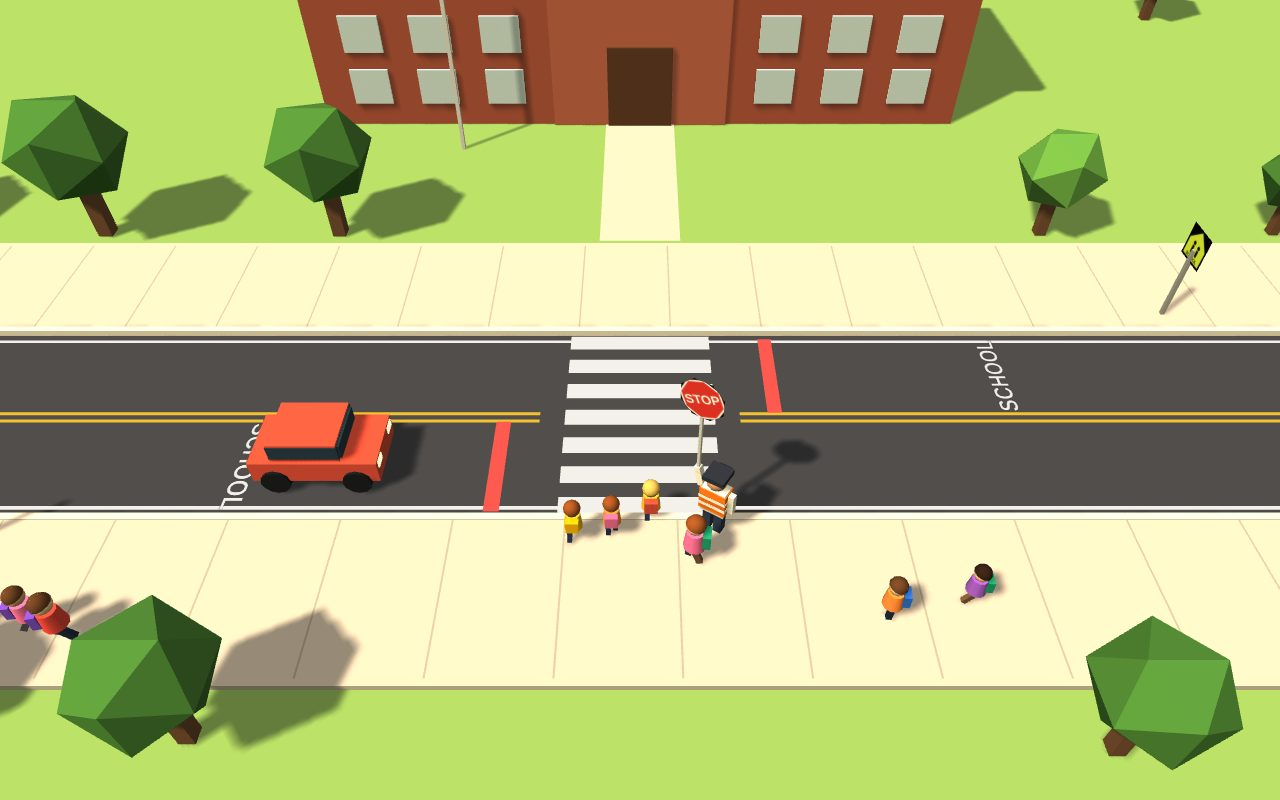
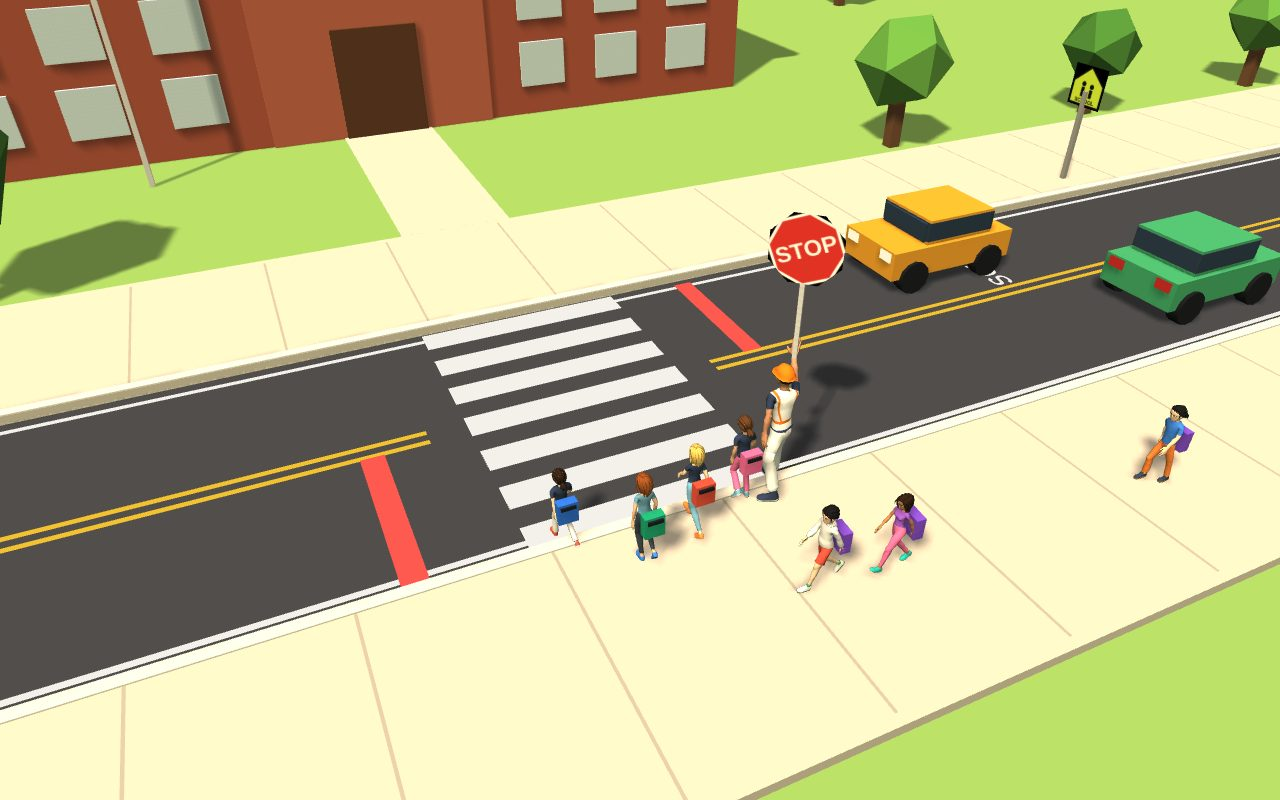
Crosswalk Captain: new coming soon picture, out Oct 24
Claude-Session: https://claude.ai/code/session_01Mr7C6rce9ge9vRUz7Dx5or

diff --git a/docs/index.html b/docs/index.html
@@ -489,9 +489,9 @@ try{gcTheme(JSON.parse(localStorage.getItem('gc.theme')||'"amber"'))}catch(e){}
   <section class="sec" id="secSoon" aria-labelledby="hSoon">
     <div class="sech pad"><h2 id="hSoon">Coming soon</h2><p>Games on the way to the shelf.</p></div>
     <div class="row" id="rowSoon">
-      <div class="tile soon" role="group" aria-label="Crosswalk Captain, coming soon. Be the crossing guard: raise the STOP sign at the right moment and get every kid to school." style="--bgs:#3a3d44;--ac:#d6322b;--ci:#ffffff;--font:'Lilita One','Arial Rounded MT Bold',sans-serif;--lfg:#fffaf0;--sz:1.12">
-        <span class="tim"><img src="art/crosswalk-captain.jpg?1" alt="" loading="lazy" decoding="async"><span class="tkd">3D · arcade</span><span class="sdate">SOON</span><span class="tnm">Crosswalk Captain</span></span>
-        <span class="tmeta">Be the crossing guard. Raise the <b>STOP</b> sign at the right moment and get every kid to school.</span>
+      <div class="tile soon" role="group" aria-label="Crosswalk Captain, comes out Saturday, October 24. Be the crossing guard: raise the STOP sign at the right moment and get every kid to school." style="--bgs:#3a3d44;--ac:#d6322b;--ci:#ffffff;--font:'Lilita One','Arial Rounded MT Bold',sans-serif;--lfg:#fffaf0;--sz:1.12">
+        <span class="tim"><img src="art/crosswalk-captain.jpg?2" alt="" loading="lazy" decoding="async"><span class="tkd">3D · arcade</span><span class="sdate">OCT 24</span><span class="tnm">Crosswalk Captain</span></span>
+        <span class="tmeta">Comes out <b>Sat, Oct 24</b> · Be the crossing guard and get every kid to school.</span>
       </div>
     </div>
   </section>
@@ -1553,7 +1553,7 @@ function launch(g,cart){
 <script>
 /* Game Crate: home-screen apps can't refresh, so check for a newer version of this page and load it */
 (function(){
-  var V='2026-10-22-crate26';
+  var V='2026-10-22-crate27';
   function check(){
     if(window.__maxcade)return;
     fetch('./?check='+Date.now(),{cache:'no-store'}).then(function(r){return r.ok?r.text():''}).then(function(t){
